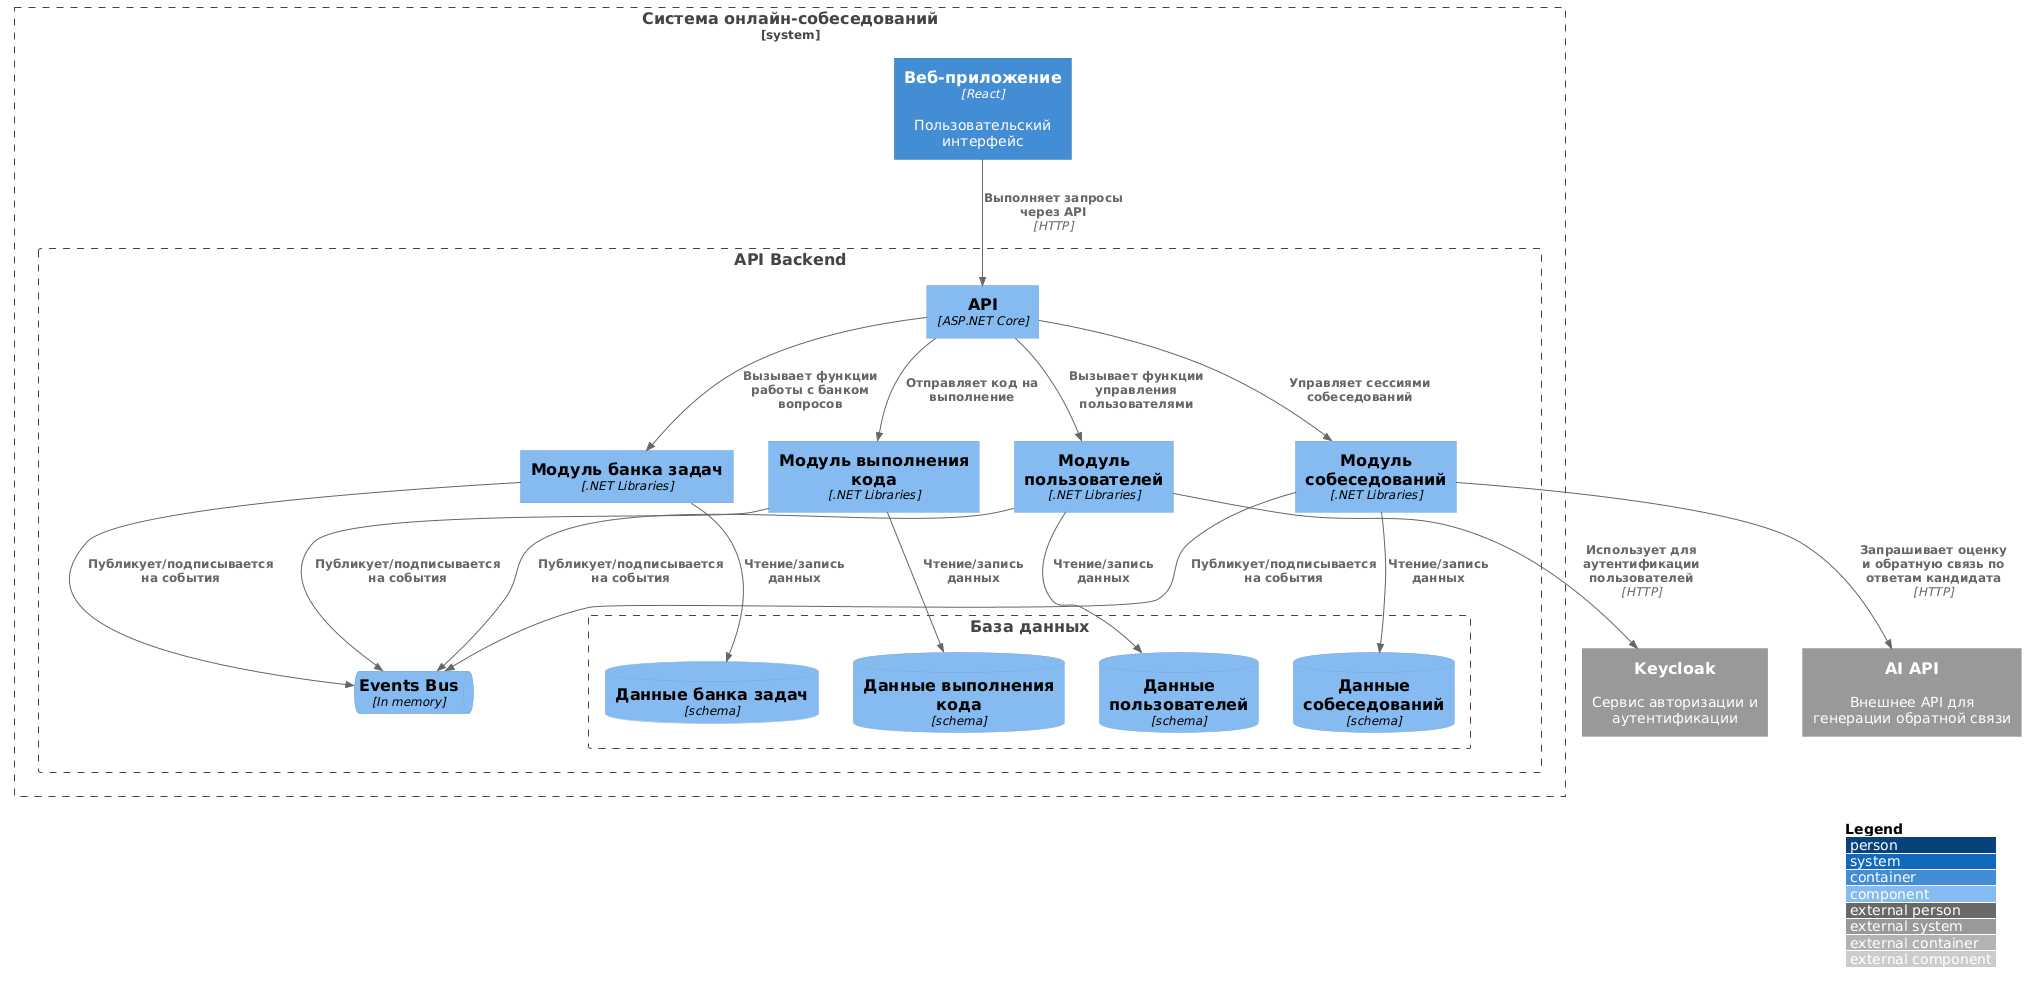
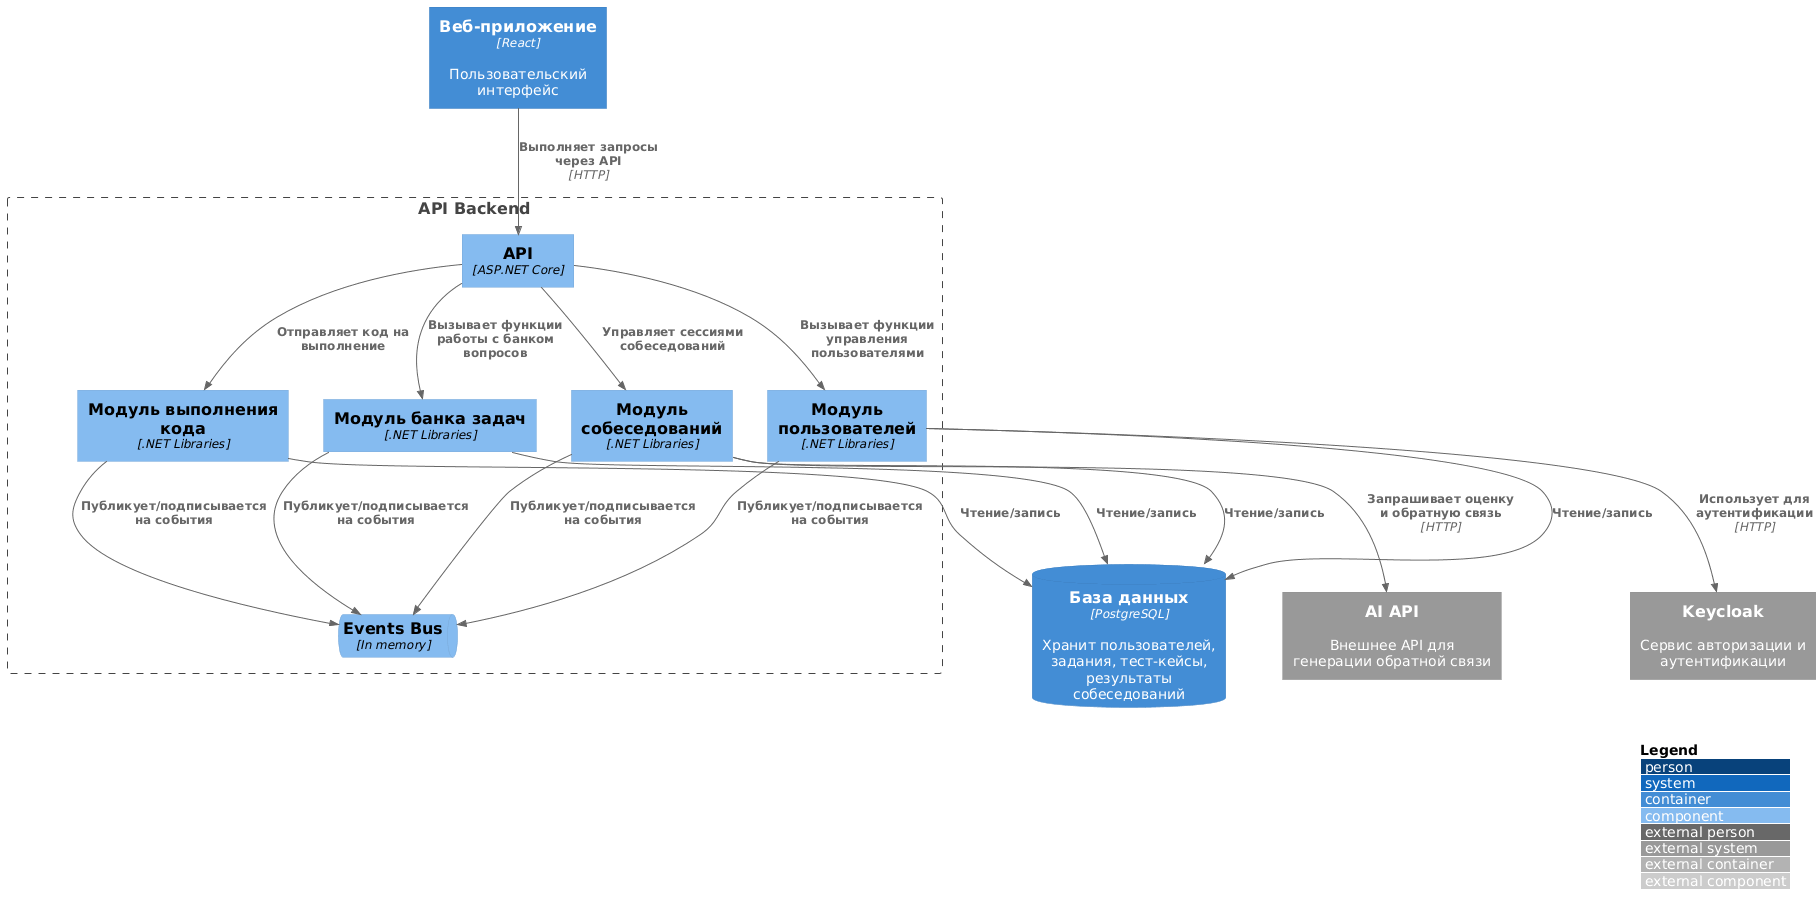
Исправил диаграммы компонентов, добавил диаграмму компонентов для фронтенда

diff --git a/Lab Work №2/Docs/LabWork2.md b/Lab Work №2/Docs/LabWork2.md
@@ -114,3 +114,21 @@
 4. **Infrastructure** – реализация доступа к данным, репозитории, интеграция с внешними сервисами и шиной событий
 
 5. **IntegrationEvents** – описание DTO событий для публикации и обработки через шину событий. Только эта сборка может вызываться другими модулями
+
+## Диаграмма компонентов (Frontend)
+
+![alt text](./C4/Components/Frontend/image.png)
+
+### Описание компонентов
+
+1. Маршрутизатор - компонент для управления навигацией в SPA приложении. Определяет, какой компонент страницы отобразить на основе текущего URL
+
+2. API Клиент - модуль для выполнения всех HTTP-запросов к API Backend
+
+3. Страница аутентификации - интерфейс для входа и регистрации пользователей. Отвечает за взаимодействие с аутентификацией через бэкенд
+
+4. Страница собеседования - интерфейс для кандидатов. Отображает задания, редактор кода и отправляет ответы/решения на проверку
+
+5. Страница результатов/отчетов - отображает итоги пройденного собеседования
+
+6. Панель контент-менеджера - интерфейс, доступный контент-менеджеру, для выполнения CRUD-операций с вопросами и задачами
